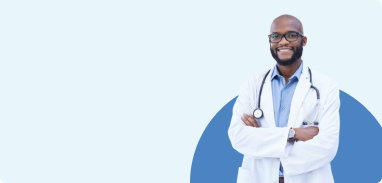
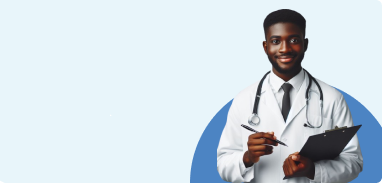
User welcome screen UI change

Changed region(s): [[0.5471, 0.0273, 0.9503, 1.0]]

diff --git a/components/Blocks/AdBlock.js b/components/Blocks/AdBlock.js
@@ -1,5 +1,11 @@
 import React from "react";
-import { View, Image, StyleSheet, Pressable } from "react-native";
+import {
+  View,
+  Image,
+  StyleSheet,
+  Pressable,
+  ImageBackground,
+} from "react-native";
 
 import HeaderText from "../ui/HeaderText";
 
@@ -11,49 +17,60 @@ import { faArrowRight } from "@fortawesome/free-solid-svg-icons";
 
 export default function AdBlock() {
   return (
-    <Pressable style={styles.outerView}>
-      <View style={styles.innerView}>
-        <View style={styles.firstHalf}>
-          <HeaderText
-            styleProp={[globalStyles.smallerText, { color: "white" }]}
-          >
-            Get 30% Discount on your First Purchase
-          </HeaderText>
-          <View
-            style={{
-              flexDirection: "row",
-              justifyContent: "center",
-              alignItems: "center",
-            }}
-          >
+    <ImageBackground
+      source={require("../../assets/images/banner3.png")}
+      style={styles.backgroundImage}
+    >
+      <Pressable style={styles.outerView}>
+        <View style={styles.innerView}>
+          <View style={styles.firstHalf}>
             <HeaderText
               styleProp={[globalStyles.smallerText, { color: "white" }]}
             >
-              Shop Now
+              Get 30% Discount on your First Purchase
             </HeaderText>
-            <Icon
-              name="arrow-right"
-              size={20}
-              color="#333"
-              icon={faArrowRight}
-              style={{ color: "white", marginLeft: 1 }}
-            />
+            <View
+              style={{
+                flexDirection: "row",
+                justifyContent: "center",
+                alignItems: "center",
+              }}
+            >
+              <HeaderText
+                styleProp={[globalStyles.smallerText, { color: "white" }]}
+              >
+                Shop Now
+              </HeaderText>
+              <Icon
+                name="arrow-right"
+                size={20}
+                color="#333"
+                icon={faArrowRight}
+                style={{ color: "white", marginLeft: 1 }}
+              />
+            </View>
+          </View>
+          <View style={styles.secondHalf}>
+            <Image source={require("../../assets/images/panadol.png")} />
           </View>
         </View>
-        <View style={styles.secondHalf}>
-          <Image source={require("../../assets/images/panadol.png")} />
-        </View>
-      </View>
-    </Pressable>
+      </Pressable>
+    </ImageBackground>
   );
 }
 
 const styles = StyleSheet.create({
   outerView: {
-    backgroundColor: Colors.mainPink,
     width: "100%",
     margin: 5,
     borderRadius: 10,
+  },
+  backgroundImage: {
+    height: 160,
+    resizeMode: "cover",
+    borderRadius: 10,
+    marginTop: 10,
+    marginBottom: 40,
   },
   innerView: {
     flexDirection: "row",

diff --git a/components/Blocks/FeaturesBlock.js b/components/Blocks/FeaturesBlock.js
@@ -27,35 +27,47 @@ export default function FeaturesBlock() {
         text="Consult a specialist"
         style={styles.column}
         onPress={() => navigateToScreen("ManualDetailsScreen")}
+        bgColor="#FF594D3B"
+        txtColor="#FF594D"
       />
       <FeaturesCard
         src={require("../../assets/images/ambulance.png")}
         text="Ambulance"
         style={styles.column}
         onPress={openModal}
+        bgColor="#4C84C333"
+        txtColor="#4C84C3"
       />
       <FeaturesCard
         src={require("../../assets/images/house.png")}
         text="Home Visit"
         style={styles.column}
+        bgColor="#983B2D33"
+        txtColor="#983B2D"
         onPress={() => navigateToScreen("HouseVisitScreen")}
       />
       <FeaturesCard
         src={require("../../assets/images/board.png")}
         text="Medical Records"
+        bgColor="#17A18233"
         style={styles.column}
+        txtColor="#17A182"
         onPress={() => navigateToScreen("MedicalRecordsScreen")}
       />
       <FeaturesCard
         src={require("../../assets/images/meds.png")}
         text="Pharmacy"
         style={styles.column}
+        txtColor="#0EA6C6"
+        bgColor="#0EA6C633"
         onPress={() => navigateToScreen("Shop")}
-      />
+      /> 
       <FeaturesCard
         src={require("../../assets/images/microscope.png")}
         text="Lab Services"
         style={styles.column}
+        txtColor="#FF594D"
+        bgColor="#FF594D3B"
         onPress={() => navigateToScreen("LabScreen")}
       />
       <AmbulanceModal visible={isModalVisible} closeModal={closeModal} />

diff --git a/screens/doctor/NewScheduleScreen.js b/screens/doctor/NewScheduleScreen.js
@@ -1,8 +1,16 @@
 import React, { useState, useContext, useEffect } from "react";
-import { Alert, ScrollView, StyleSheet, TextInput, ActivityIndicator, View } from "react-native";
+import {
+  Alert,
+  ScrollView,
+  StyleSheet,
+  TextInput,
+  ActivityIndicator,
+  View,
+} from "react-native";
 import NotificationBell from "../../components/ui/NotificationBell";
 import LoadingOverlay from "../../components/ui/LoadingOverlay";
 import HeaderText from "../../components/ui/HeaderText";
+import MediumText from "../../components/ui/MediumText";
 import { globalStyles } from "../../constants/globalcss";
 import { SafeAreaView } from "react-native-safe-area-context";
 import UrgencyCard from "../../components/Cards/UrgencyCard";
@@ -25,7 +33,7 @@ export default function NewScheduleScreen({ route }) {
       keyProp: "daily",
     },
     {
-      text: "Individual days",
+      text: "Individual",
       keyProp: "individual",
     },
   ];
@@ -87,6 +95,10 @@ export default function NewScheduleScreen({ route }) {
   ) => {
     return (
       <View>
+        <MediumText>
+          First select if you'd like to enter day by day or have the same
+          schedule for each working day.
+        </MediumText>
         <Picker
           style={[globalStyles.disabledContainer, styles.customInput]}
           selectedValue={selectedStartRange}

diff --git a/components/Cards/FeaturesCard.js b/components/Cards/FeaturesCard.js
@@ -4,22 +4,30 @@ import NormalText from "../ui/NormalText";
 
 import { Colors } from "../../constants/styles";
 
-export default function FeaturesCard({ src, text, onPress }) {
+export default function FeaturesCard({
+  src,
+  text,
+  onPress,
+  bgColor,
+  txtColor,
+}) {
   return (
     <Pressable onPress={onPress} style={{ width: "33.33%" }}>
-      <View style={styles.featuresCard}>
+      <View style={[styles.featuresCard, { backgroundColor: bgColor }]}>
         <Image style={styles.image} source={src} />
-        <NormalText styleProp={styles.text}>{text}</NormalText>
+        <NormalText styleProp={[styles.text, { color: txtColor }]}>
+          {text}
+        </NormalText>
       </View>
     </Pressable>
   );
 }
-
+ 
 const styles = StyleSheet.create({
   featuresCard: {
     justifyContent: "center",
     alignItems: "center",
-    backgroundColor: Colors.mainBlue,
+
     margin: 2,
     height: 100,
     borderRadius: 10,
@@ -32,7 +40,7 @@ const styles = StyleSheet.create({
   },
   text: {
     fontSize: 10,
-    color: "white",
+    color: "black",
     marginTop: 2,
   },
 });

diff --git a/screens/user/WelcomeScreen.js b/screens/user/WelcomeScreen.js
@@ -29,7 +29,7 @@ export default function WelcomeScreen() {
         <View>
           <HeaderText>Welcome Back {token.user_name}!</HeaderText>
           <SearchInput message="Doctors, Products or Services" />
-          <BannerBlock />
+          <BannerBlock /> 
           <HeaderText styleProp={globalStyles.smallerText}>
             What we have prepared for you!
           </HeaderText>
